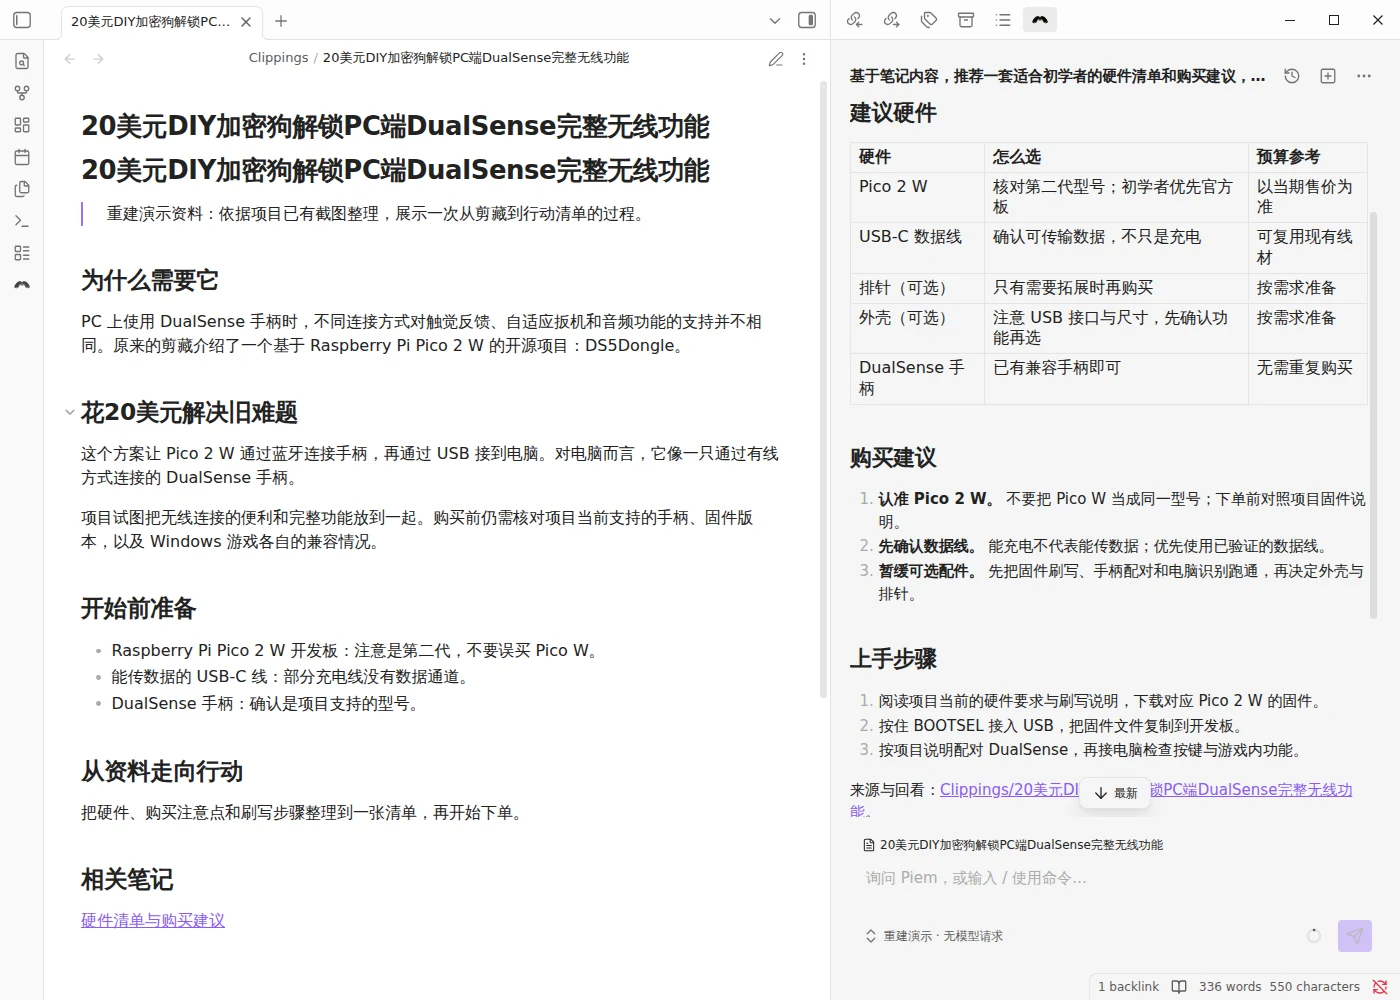
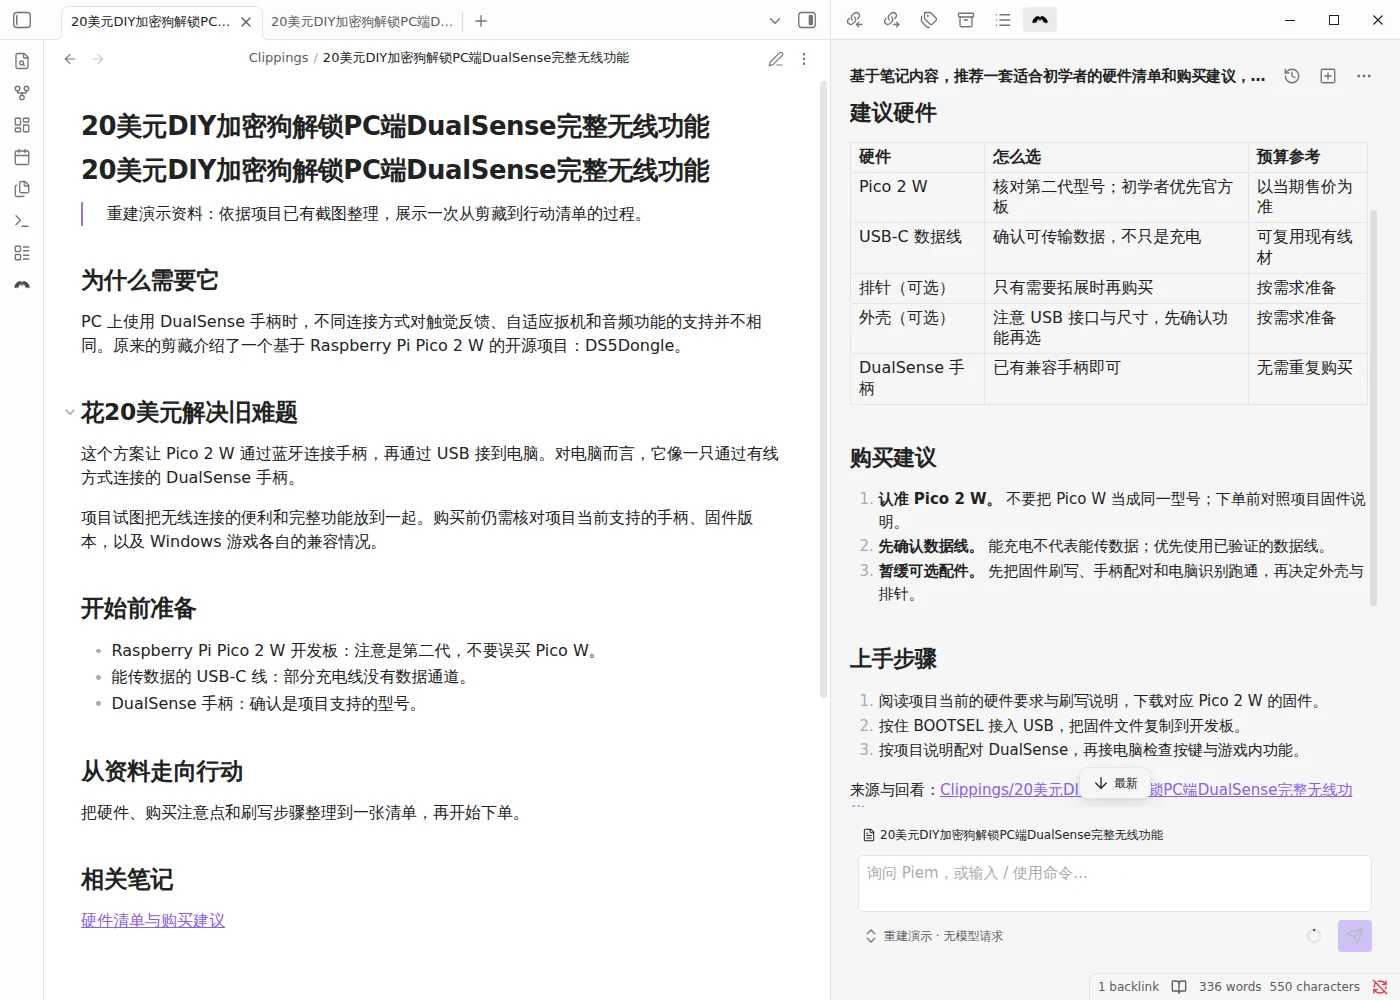
docs: refresh shared input card captures and verification

Changed region(s): [[0.6143, 0.775, 0.8293, 0.899], [0.1843, 0.0, 0.3071, 0.031]]

diff --git a/styles.css b/styles.css
@@ -1781,6 +1781,8 @@ button.piem-chat__context-open {
 	font-size: var(--font-ui-smaller);
 }
 
+.piem-chat__attachment-kind { flex-shrink: 0; white-space: nowrap; }
+
 .piem-chat__attachment-chevron { transition: transform 120ms ease; }
 .piem-chat__attachment-details[open] .piem-chat__attachment-chevron { transform: rotate(180deg); }
 .piem-chat__attachment-remove { flex: none; }

diff --git a/assets/screenshots/README.md b/assets/screenshots/README.md
@@ -11,8 +11,11 @@ DualSense example: *"based on this note, recommend a beginner's hardware list
 with buying advice."* The prose was a fixture, not a new model response; the
 installed plugin's real read, write and edit tools created the notes and their
 receipts, loaded through the native session manager and ChatApp. The model picker
-labels that reconstruction. The desktop overview and finished phone image retain
-those captures; the empty state remains the earlier phone capture.
+labels that reconstruction. The desktop overview and finished phone image were
+retaken again after the shared input-frame change, using the same scripted
+example and real tool receipts. `mobile-empty.webp` now shows the draft before
+sending: a skill card and the source note reference inside that input frame.
+Its historical filename is retained so existing documentation links keep working.
 
 `errand-trace.webp` was replaced later on 2026-09-12 with a separate example in
 an isolated demo vault using the current plugin's mixed activity groups. Its
@@ -27,7 +30,7 @@ the original note's `+4 −0` edit. Both READMEs disclose the source beside the 
 | --- | --- | --- |
 | `errand-desktop.webp` | Full window: the reconstructed note on the left, hardware table and buying advice on the right | 1400px wide, light theme |
 | `errand-trace.webp` | The transcript: two open groups combining thinking with read/write/edit calls, the `+4 −0` diff, and the reply | 754px wide, light theme |
-| `mobile-empty.webp` | Phone, empty panel: quick actions shaped by the open note | 640px wide, light theme |
+| `mobile-empty.webp` | Before sending: a skill card and note reference inside the text input | 390px viewport, light theme |
 | `mobile-done.webp` | Reconstructed errand finished, in Obsidian's official phone emulation | 390px viewport, light theme |
 
 The phone emulation is desktop Obsidian in its native mobile mode, not an

diff --git a/worklogs/2026-09-12-proactive-context-implementation.md b/worklogs/2026-09-12-proactive-context-implementation.md
@@ -92,3 +92,8 @@ Bun 使用与 CI 相同的 1.4.0，路径 `/tmp/piem-context-runtime-20260912/pa
 - 桌面和 390px 官方移动端模拟、深浅主题中，技能与引用都在同一个文字输入框内；仅一个输入边界，问题区没有第二条 border/shadow，无横向溢出（`desktop-report.json`、`mobile-report.json` 及对应 PNG）。截图已查看。
 - 从该草稿点击实际发送按钮，本地 HTTP 恰好收到一个 native `<skill>` wrapper 和四类引用，用户可见问题对应同一份 stored prompt，卡片 renderer details 不发给模型，发送后材料和问题清空（`http-result.json`、`model-request.json`）。
 - 实体手机键盘与读屏未测；这轮监管时限到达后宿主退出，进程全部回收、端口关闭，未把退出后调用的 unload 探针算作成功。最后光标修正及同步上游后成品另记，不混称同一 SHA。
+
+
[1 lines of base64/hex data omitted]
+
+README 中受输入框变化影响的桌面总览和手机图已用当前插件、原有硬件示例真实重拍；图片来源说明和中英文 caption 同步。手机左图现在展示发送前技能＋引用卡片，旧 mobile-empty 文件名保留；不再把它称为旧实机图。`/tmp/piem-skills-final-20260912/final-draft-check.json` 与 `final-unload.json` 确认卡片正文可读、卸载 runtime=0；监管进程在完成后回收。

diff --git a/README.md b/README.md
@@ -117,13 +117,13 @@ commands.
 ## 📱 Your phone counts as a real computer
 
 <p align="center">
-  <img src="assets/screenshots/mobile-empty.webp" width="290" alt="Piem on a phone, empty panel: three suggested first actions and the composer, with the active note chip above it.">
+  <img src="assets/screenshots/mobile-empty.webp" width="290" alt="Piem before sending in Obsidian phone emulation: a skill and note reference share the text input frame.">
   &nbsp;&nbsp;&nbsp;&nbsp;
   <img src="assets/screenshots/mobile-done.webp" width="290" alt="Piem in Obsidian's official phone emulation after the reconstructed errand, showing the saved checklist and backlinks.">
 </p>
 
 <p align="center">
-  <sub>Left: an earlier capture on a phone. Right: the updated demo in Obsidian's official phone emulation.</sub>
+  <sub>Before and after: a skill and note reference in the input, then the completed example. Both captures use Obsidian's official phone emulation.</sub>
 </p>
 
 Piem ships with `isDesktopOnly: false` and means it. Tools, subagents, skills,
